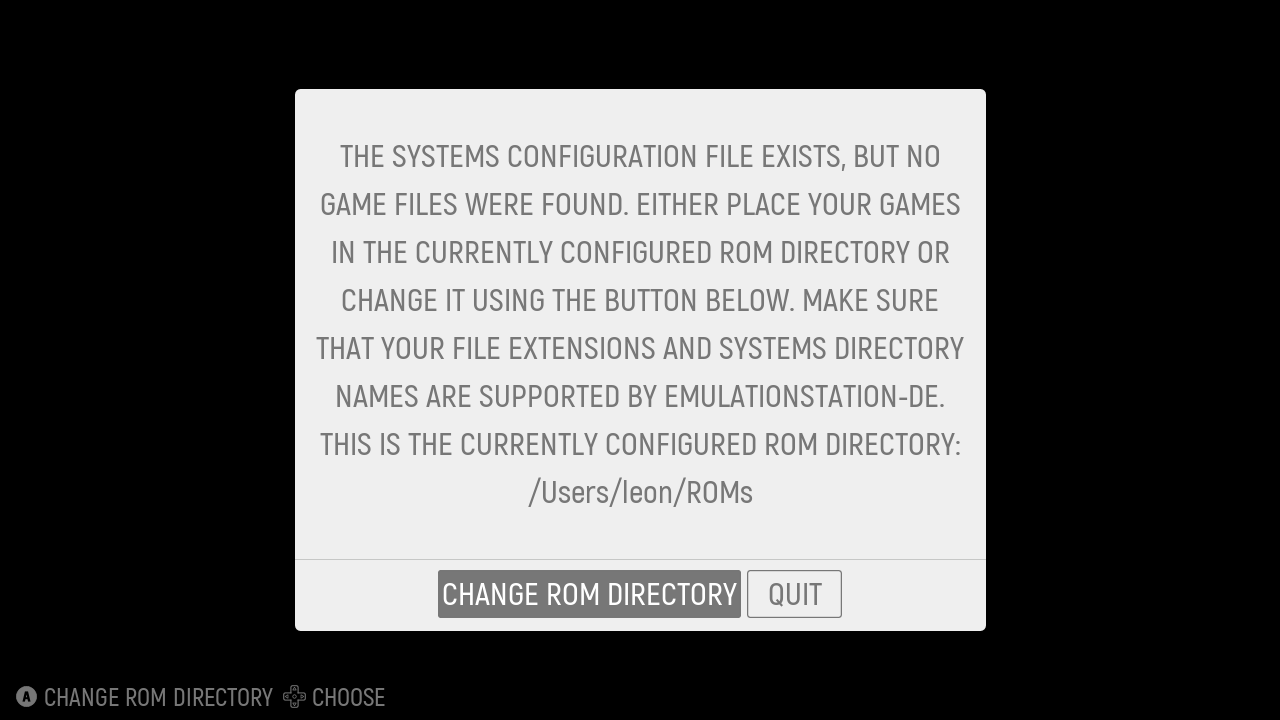
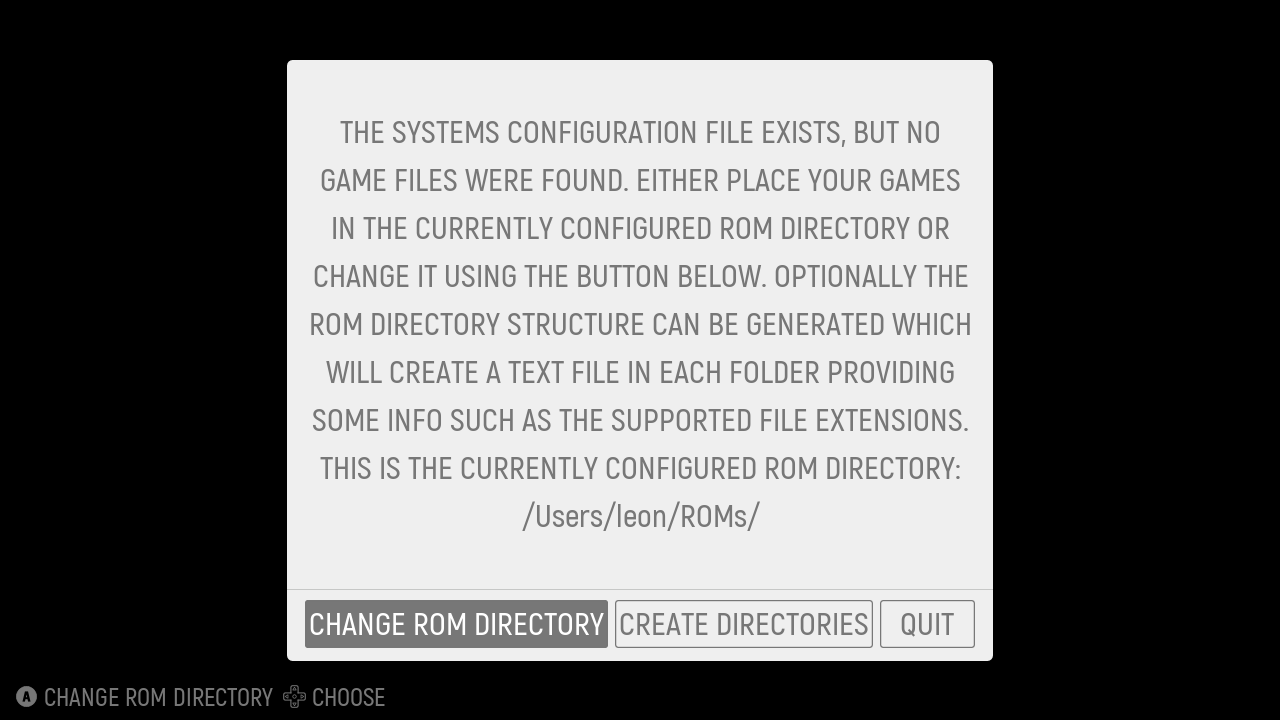
Documentation update.

Changed region(s): [[0.2188, 0.0611, 0.7812, 0.9167]]

diff --git a/USERGUIDE.md b/USERGUIDE.md
@@ -11,10 +11,11 @@ Table of contents:
 If you just want to get started as quickly as possible, simply follow these steps:
 
 1) Install ES-DE
-2) Install and configure [RetroArch](https://www.retroarch.com)
+2) Start the application and press the _Create directories_ button to generate the ROMs directory structure
+3) Put your game ROMs in the directories created by the previous step, or see [here](USERGUIDE.md#supported-game-systems) for additional details
+4) Install and configure [RetroArch](https://www.retroarch.com)
 3) _Windows only: add the RetroArch directory to your system path environmental variable_
-4) Start RetroArch and install the emulator cores you want to use, see the [end](USERGUIDE.md#supported-game-systems) of this guide which ones are used by default by ES-DE
-5) Put your game ROMs in separate directories per game system under ~/ROMs, again see the end of this guide which directory names should be used
+4) Start RetroArch and install the required emulator cores - to see which ones you need look in the systeminfo.txt files in the directories created by step 2, or again see [here](USERGUIDE.md#supported-game-systems)
 6) Start ES-DE and follow the on-screen instructions to configure your controller
 7) Scrape game media for your collection and play some games!
 
@@ -79,13 +80,35 @@ On Unix this means /home/\<username\>/.emulationstation/, on macOS /Users/\<user
 
 On first startup the configuration file `es_settings.cfg` will be generated in the ES-DE home directory, containing all the default settings. A file named `es_systems.cfg` will also be copied from the program resource folder. This file contains the game ROM paths and emulator settings and can be modified if needed. For information on how to do this, refer to the [INSTALL.md](INSTALL.md#es_systemscfg) document.
 
-
 There's a log file in the ES-DE home directory named `es_log.txt`, please refer to this in case of any issues as it should hopefully provide information on what went wrong. Starting ES-DE with the --debug flag provides even more detailed information.
 
-After ES-DE finds at least one game file, it will populate that game system and the application will start. If there are no game files, an error messsage will be shown, explaining that you need to install your game files into your ROM directory. You will also be given a choice to change the ROM directory if you don't want to use the default one.
+After ES-DE finds at least one game file, it will populate that game system and the application will start. If there are no game files, a dialog will be shown explaining that you need to install your game files into your ROM directory, and you will also be given a choice to change that ROM directory if you don't want to use the default one. As well you have the option to generate the complete game systems directory structure based on information from es_systems.cfg.
+
+When generating the directory structure, a file named systeminfo.txt will be created in each game system folder which will provide you with some information about the system such as the supported file extensions. Here's an example for the _gc_ system as seen on macOS:
+```
+System name:
+gc
+
+Full system name:
+Nintendo GameCube
+
+Supported file extensions:
+.gcm .GCM .iso .ISO .wbfs .WBFS .ciso .CISO .gcz .GCZ .elf .ELF .dol .DOL .dff .DFF .tgc .TGC .wad .WAD .7z .7Z .zip .ZIP
+
+Launch command:
+/Applications/RetroArch.app/Contents/MacOS/RetroArch -L %EMUPATH%/../Resources/cores/dolphin_libretro.dylib %ROM%
+
+Platform (for scraping):
+gc
+
+Theme folder:
+gc
+```
+
+Be aware that there will be a lot of directories created if using the template es_systems.cfg files bundled with the installation, so it may be a good idea to delete the ones you don't need. Deleting the unnecessary directories also leads to a slightly faster application startup.
 
 ![alt text](images/current/es-de_ui_easy_setup.png "ES-DE Easy Setup")
-_This is the error dialog shown if no game files were found. It also lets you configure the ROM directory if you don't want to use the default one. Note that the directory is the real physical path, and that your operating system may present this as a localized path if you are using a language other than English._
+_This is the dialog shown if no game files were found. It lets you configure the ROM directory if you don't want to use the default one, and you can also generate the game systems directory structure. Note that the directory is the real physical path, and that your operating system may present this as a localized path if you are using a language other than English._
 
 
 ## Migrating from other EmulationStation forks

diff --git a/CHANGELOG.md b/CHANGELOG.md
@@ -22,6 +22,7 @@ Many bugs have been fixed, and numerous features that were only partially implem
 * Added support for Windows, macOS, FreeBSD, NetBSD and OpenBSD
 * New default theme rbsimple-DE bundled with the software (this theme is largely based on Recalbox Multi by the Recalbox community)
 * Added extensive es_systems.cfg templates for Unix, macOS and Windows that are automatically installed on first application startup
+* Added support for generating the ROM directory structure from within the application based on information in es_systems.cfg
 * Added full navigation sound support, configurable per theme with a fallback to the built-in sounds if there is no theme support
 * Added multi-monitor support by giving the option to define on which display to run ES-DE
 * Improved input device configuration and default keyboard mappings are now applied if the keyboard has not been configured by the user
@@ -69,6 +70,8 @@ Many bugs have been fixed, and numerous features that were only partially implem
 * Replaced the main application font with Fontfabric Akrobat
 * Replaced the on and off button icons with new graphics
 * Replaced the checked checkmark icon with new graphics
+* Changed the application icons and splash screen color theme from blue to red
+* Improved the menu interface on 4:3 aspect ratio displays
 * Made ScrollableContainer (used for the gamelist game descriptions) fade in as the text position is reset
 * Made the ScrollableContainer scroll speed adaptive depending on the font size and width of the text container
 * Moved all resources to a subdirectory structure and enabled the CMake install prefix variable to generate the resources search path
@@ -117,6 +120,7 @@ Many bugs have been fixed, and numerous features that were only partially implem
 * The controller D-PAD could not be used for entering the UI mode change passkey
 * Filters were not applied when leaving folders using the back button
 * Editing long text entries made the cursor jump outside the editing field
+* Long words would sometimes render partly outside the designated text area instead of being abbreviated
 * Fixed an annoying gamelist issue that caused the game images and data to be updated and rendered up to six times every time the list was scrolled
 * Not all input events were logged when running with debug logging activated
 * Unknown command line options were silently accepted instead of generating an error and notifying the user
